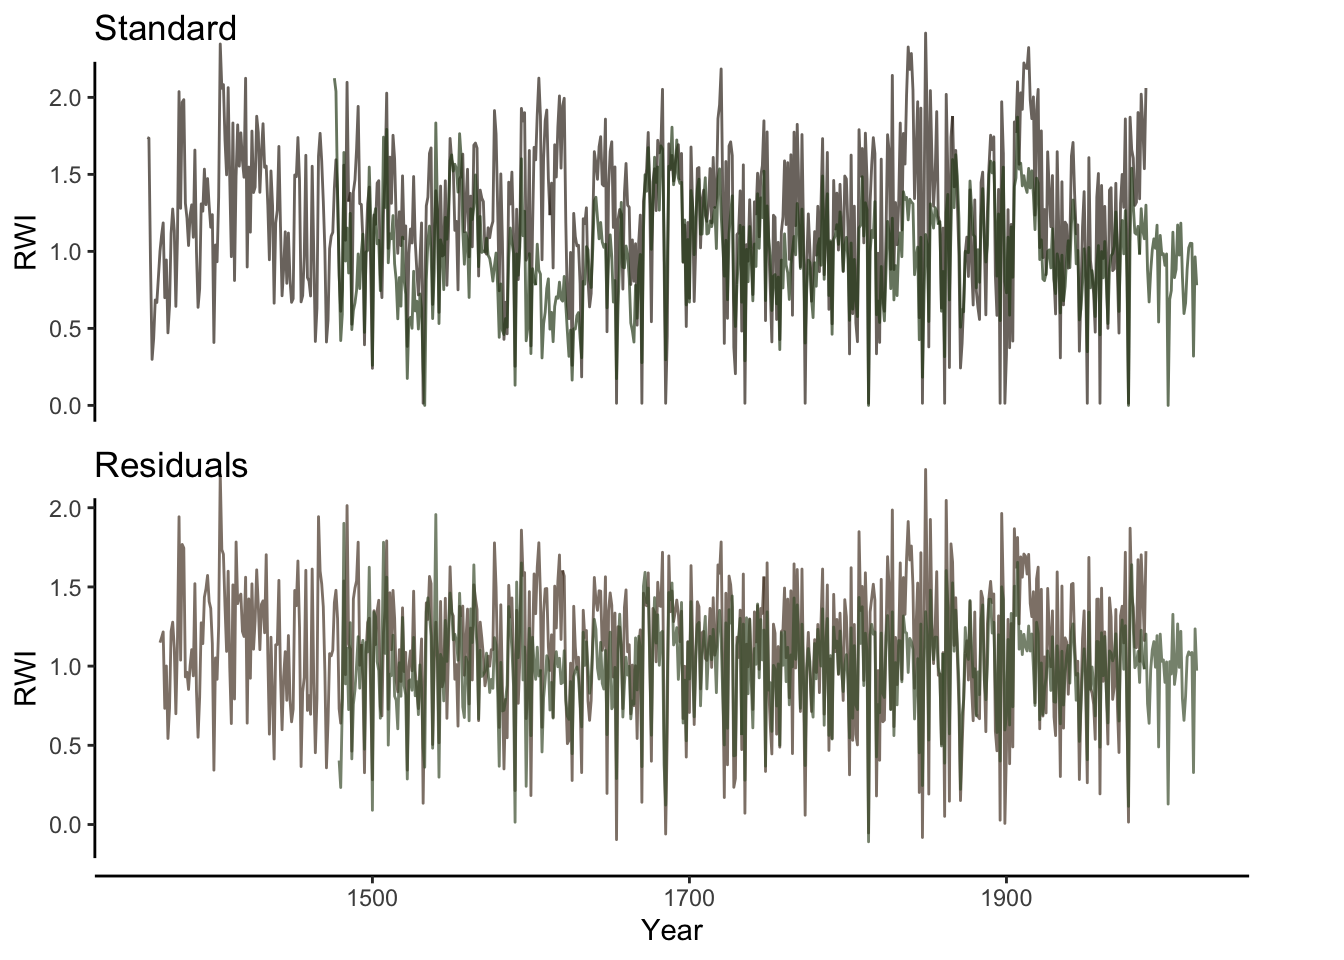
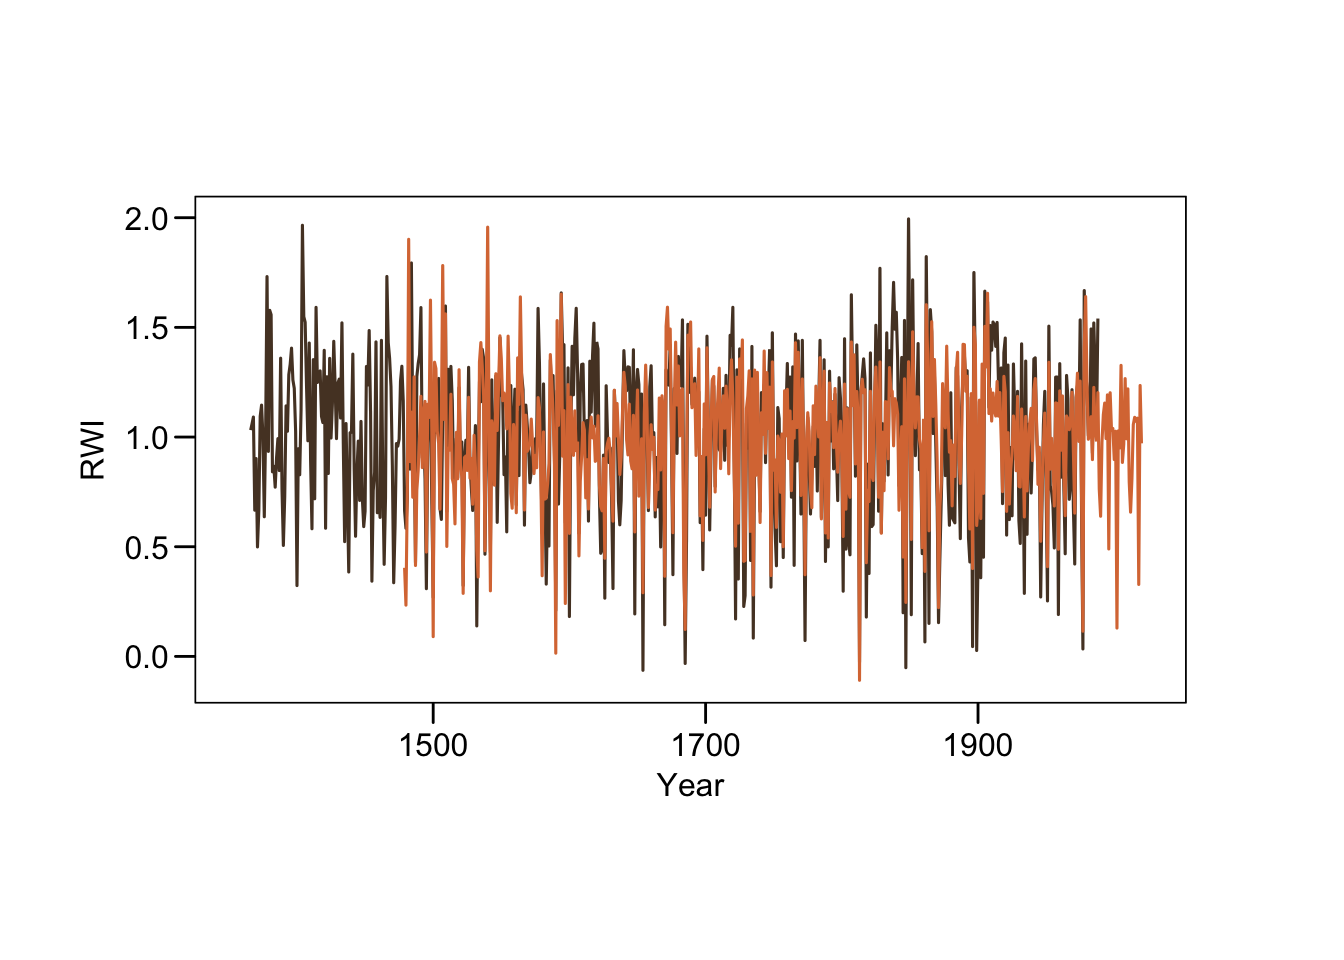
color changes

diff --git a/ReconStep.html b/ReconStep.html
@@ -441,17 +441,24 @@ F-statistic: 48.62 on 3 and 121 DF,  p-value: &lt; 2.2e-16</code></pre>
 <p class="heading"></p>
 <div class="cell">
 <div class="cell-output cell-output-stderr">
-<pre><code>Scale for y is already present.
-Adding another scale for y, which will replace the existing scale.
-Scale for y is already present.
-Adding another scale for y, which will replace the existing scale.</code></pre>
+<pre><code>Warning: Removed 32 rows containing missing values or values outside the scale range
+(`geom_path()`).</code></pre>
 </div>
-<div class="cell-output-display">
-<div>
-<figure class="figure">
-<p><img src="ReconStep_files/figure-html/unnamed-chunk-15-1.png" class="img-fluid figure-img" width="672"></p>
-</figure>
+<div class="cell-output cell-output-stderr">
+<pre><code>Warning: Removed 118 rows containing missing values or values outside the scale range
+(`geom_path()`).</code></pre>
 </div>
+<div class="cell-output cell-output-stderr">
+<pre><code>Warning: Removed 40 rows containing missing values or values outside the scale range
+(`geom_path()`).</code></pre>
+</div>
+<div class="cell-output cell-output-stderr">
+<pre><code>Warning: Removed 121 rows containing missing values or values outside the scale range
+(`geom_path()`).</code></pre>
+</div>
+<div class="cell-output cell-output-stdout">
+<pre><code>quartz_off_screen 
+                2 </code></pre>
 </div>
 </div>
 <div class="cell">
